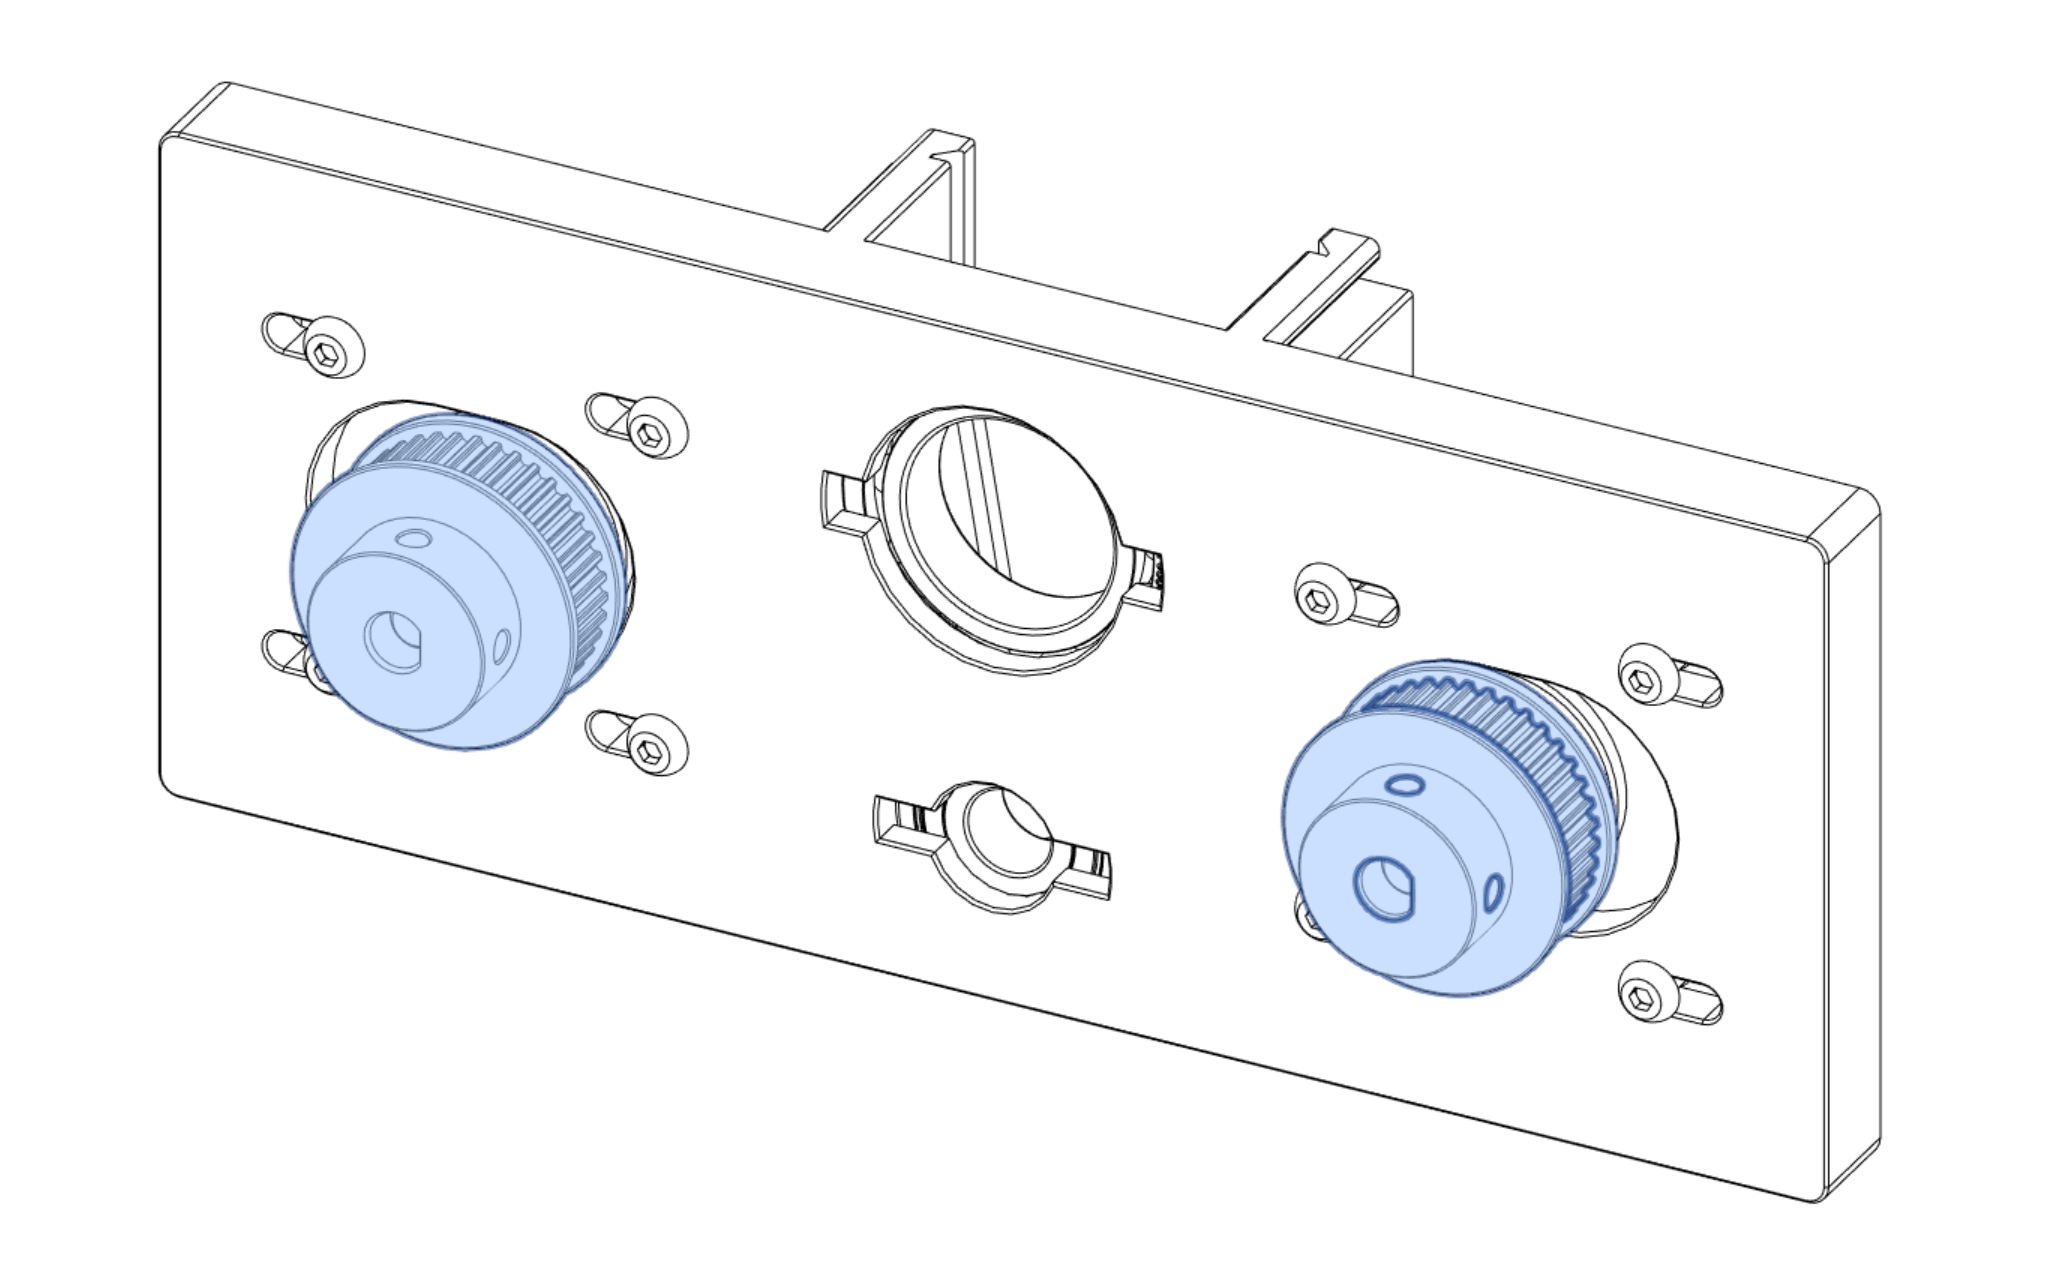
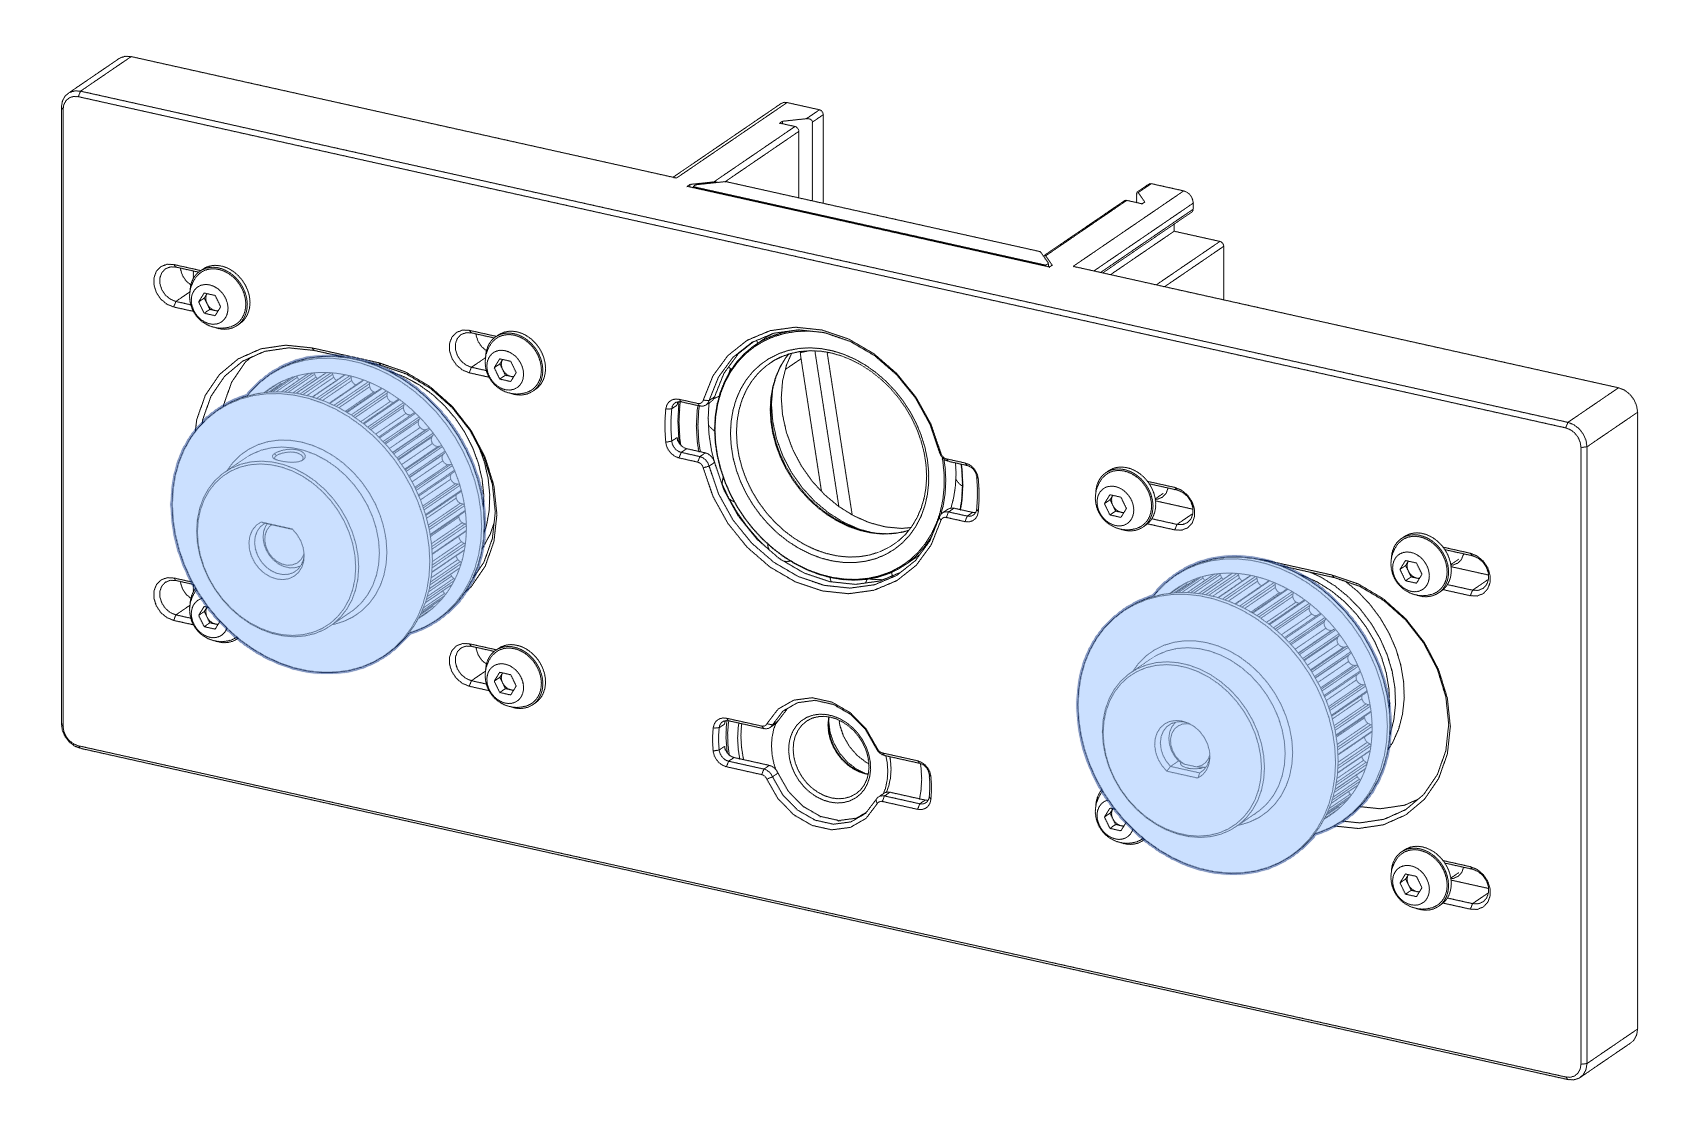
Partially update the manual for the rear body assembly

diff --git a/Manual/assembly.md b/Manual/assembly.md
@@ -1,27 +1,34 @@
 # Open Trickler Assembly Manual
 
 ## BOM
-|          **Name**          | **Quantity** | **Remarks** |
-|:--------------------------:|:------------:|:-----------:|
-|   Heatset Inserts M3x5x4   |      22      |             |
-|          M3x6 BHCS         |       5      |             |
-|          M3x8 BHCS         |       8      |             |
-|         M3x12 SHCS         |       4      |             |
-|         M3x10 SHCS         |       8      |             |
-|          M3x8 SHCS         |       7      |             |
-|      6804-2RS  Bearing     |       2      |             |
-|       608-2RS Bearing      |       2      |             |
-| Nema 17 34mm Stepper Motor |       2      |             |
+
+| **Name**                                  | **Quantity** | **Remarks** |
+|:-----------------------------------------:|:------------:|:-----------:|
+| Heatset Inserts M3x5x4                    | 22           |             |
+| M3x6 BHCS                                 | 5            |             |
+| M3x8 BHCS                                 | 8            |             |
+| M3x12 SHCS                                | 4            |             |
+| M3x10 SHCS                                | 8            |             |
+| M3x8 SHCS                                 | 7            |             |
+| 6804-2RS  Bearing                         | 2            |             |
+| 608-2RS Bearing                           | 2            |             |
+| Nema 17 34mm Stepper Motor                | 2            |             |
+| Shim Washer (OD=6mm, ID=3mm, Thick=0.5mm) | 8            | Optional    |
 
 ## Tools
+
 Subject to the self supplied components, following tools may be required. 
+
 * 2.0mm, 2.5mm ball-end hex drivers are recommended.
 
 ## Assemble Open Trickler Rear Body
+
 ### Overview
+
 ![open_trickler_rear_body_overview.png](Resources/open_trickler_rear_body_overview.png)
 
 ### Component Prep
+
 This design relies heavily on heatset inserts. Make sure you have the proper inserts (check the hardware
 reference for a close up picture and the BOM for dimensions).
 
@@ -30,38 +37,57 @@ heatset inserts are flush with the bottom surface.
 ![open_trickler_rear_body_install_heatset_inserts.png](Resources/open_trickler_rear_body_install_heatset_inserts.png)
 
 ### Assembly
-Press 6804-2RS bearing top the top cut out and 608-2RS to the bottom cut out. You may experience some 
-resistance but that is normal. 
+
+Press 6804-2RS bearing to the top cut out and 608-2RS to the bottom cut out. [Printable bearing insert helpers](../STL/OpenTrickler/Tools) are supplied if you want to use bench top vise in this application. 
+
 ![open_trickler_rear_body_install_bearings.png](Resources/open_trickler_rear_body_install_bearings.png)
 
-Use 8x M3x8 BHCS screws to fix two stepper motors onto the frame, but don't tighten them yet.
-Make sure the motor can slide left to right. 
+Slide the bearing cover to the rear cut out. The cover should sit flush with the top of the rear body, while two bearings are still free to rotate without resistance.
+
+If you can feel the abnormal resistance after installing the bearing cover, press the bearings inwards for additional 0.1mm to clear the interference. 
+
+![open_trickler_rear_body_install_bearing_cover](Resources/open_trickler_rear_body_install_bearing_cover.png)
+
+Use 8x M3x8 BHCS screws with the optional equal number of M3 shim washers to fix two stepper motors onto the rear body, but don't tighten them yet. Make sure the motor can slide left to right. 
+
 ![open_trickler_rear_body_install_motors.png](Resources/open_trickler_rear_body_install_motors.png)
 
-Install 2x 40T pulley to the motor shaft. The pulley height will be adjusted in later steps. 
+Slide 2x 40T pulley to the motor shaft but don't tighten the set screws yet. The pulley height will be adjusted in the later step.
+
 ![open_trickler_rear_body_install_pulley.png](Resources/open_trickler_rear_body_install_pulley.png)
 
+Slide the rear door to the cut out and the rear body assembly is complete. 
+
+![open_trickler_rear_body_install_rear_door](Resources/open_trickler_rear_body_install_rear_door.png)
+
 ## Assemble Open Trickler Front Body
+
 ### Overview
+
 ![open_trickler_front_body_overview.png](Resources/open_trickler_front_body_overview.png)
 
 ### Component Prep
+
 Flop the printed part over and melt 4x heatset inserts to the bottom part of the front body with your soldering iron. 
 Make sure heatset inserts are flush with the bottom surface
 
 ![open_trickler_front_body_install_heatset_inserts.png](Resources/open_trickler_front_body_install_heatset_inserts.png)
 
 ### Assembly
+
 Press 6804-2RS bearing top the top cut out and 608-2RS to the bottom cut out. You may experience some 
 resistance but that is normal. 
 
 ![open_trickler_front_body_install_bearings.png](Resources/open_trickler_front_body_install_bearings.png)
 
 ## Assemble Open Trickler Body
+
 ### Overview
+
 ![open_trickler_body_overview.png](Resources/open_trickler_body_overview.png)
 
 ### Assembly
+
 Insert both large and small rotary tube through the rear bearing. You may experience some resistance subject to the 
 tolerance of the printed part. 
 
@@ -76,50 +102,62 @@ The last step is to slide the front, rear doors to the groove, then side front a
 rear groove. 
 ![open_trickler_install_covers.png](Resources/open_trickler_install_covers.png)
 
-
 ## Assemble A&D FX-120i/300i Weight Pan Adapter
+
 ### Overview
+
 ![weight_pan_adapter_overview.png](Resources/weight_pan_adapter_overview.png)
 
 ### Component Prep
+
 ![weight_pan_adapter_top_install_heatset_insert.png](Resources/weight_pan_adapter_top_install_heatset_insert.png)
 
 ### Assembly
+
 Use 1x M3x6 BHCS to install the top part to the weight pan adapter. The screw should sit flush or 
 below, more importantly, not extruding beyond the surface.
 ![wieght_pan_adapter_assembly.png](Resources/wieght_pan_adapter_assembly.png)
 
 ## Assemble A&D FX Shield
+
 ### Overview
+
 The FX Shield provides the interface between the A&D FX-120i/300i.The Open Trickler is also designed to
 be mounted directly on top. 
 ![fx_shield_overview.png](Resources/fx_shield_overview.png)
 
 ### Component Prep
+
 8x heatset inserts are to be melted into the plastic on both sides of the scale shield printed part. 
 ![fx_shield_install_heatset_inserts.png](Resources/fx_shield_install_heatset_inserts.png)
 
 ### Lower Assembly
+
 Use 4x M3x12 SHCS to join scale base adapter ring, scale pan cover and scale shield together. 
 ![fx_shield_lower_assembly.png](Resources/fx_shield_lower_assembly.png)
 
 ### Upper Assembly
+
 Use 8x M3x10 SHCS to join the trickler adapter plate, with front and rear discharger. Screws are to be
 threaded to the bottom the Open Trickler front and rear body. 
 ![fx_shield_upper_assembly.png](Resources/fx_shield_upper_assembly.png)
 
 ### Put upper and lower together
+
 Use 4x M3x8 SHCS to join the upper and lower together. (The Open Trickler body is hidden to for demonstration purpose)
 ![fx_shield_general_assembly.png](Resources/fx_shield_general_assembly.png)
 
 ## Assemble Pan Cover
+
 The pan cover is used to protect the pan from dust or accidental drops. The pan cover can be seamly
 put onto the shield body when not used. 
 
 ### Overview
+
 ![pan_cover_overview.png](Resources/pan_cover_overview.png)
 
 ### Component Prep
+
 Melt 3x heatset inserts into the plastic body from the top.
 ![pan_cover_install_heatset_inserts.png](Resources/pan_cover_install_heatset_inserts.png)
 
@@ -128,28 +166,35 @@ as they are designed to directly screw into the plastic.
 ![pan_cover_install_locator.png](Resources/pan_cover_install_locator.png)
 
 ### Assembly
+
 Use 3x M3x8 SHCS to join the pan cover lid to the body. 
 ![pan_cover_assembly.png](Resources/pan_cover_assembly.png)
 
 ## Assemble Rear Discharge Cup
+
 The discharge cup is used to help cleaning powder from the reservoir by catching remaining powder
 from the drainage hole. 
 
 ### Overview
+
 ![rear_discharge_cup_overview.png](Resources/rear_discharge_cup_overview.png)
 
 ### Component Prep
+
 Melt 2x heatset inserts into the ring. 
 ![rear_discharge_cup_install_heatset_inserts.png](Resources/rear_discharge_cup_install_heatset_inserts.png)
 
 ### Assembly
+
 Use 2x M3x6 BHCS to join the ring to the discharge cup. 
 ![rear_discharge_cup_assembly.png](Resources/rear_discharge_cup_assembly.png)
 
 ## Post Installation Adjustments
+
 You need to adjust the tension of the belt. First loosen 8x M3x8 BHCS used to secure stepper motors. 
 Then pull motors slightly to tension the belts. Once done, tighten all 8 screws. 
 
 # Congratulations
+
 Your Open Trickler is assembled!
 ![fx_shield_final_view.png](Resources/fx_shield_final_view.png)
